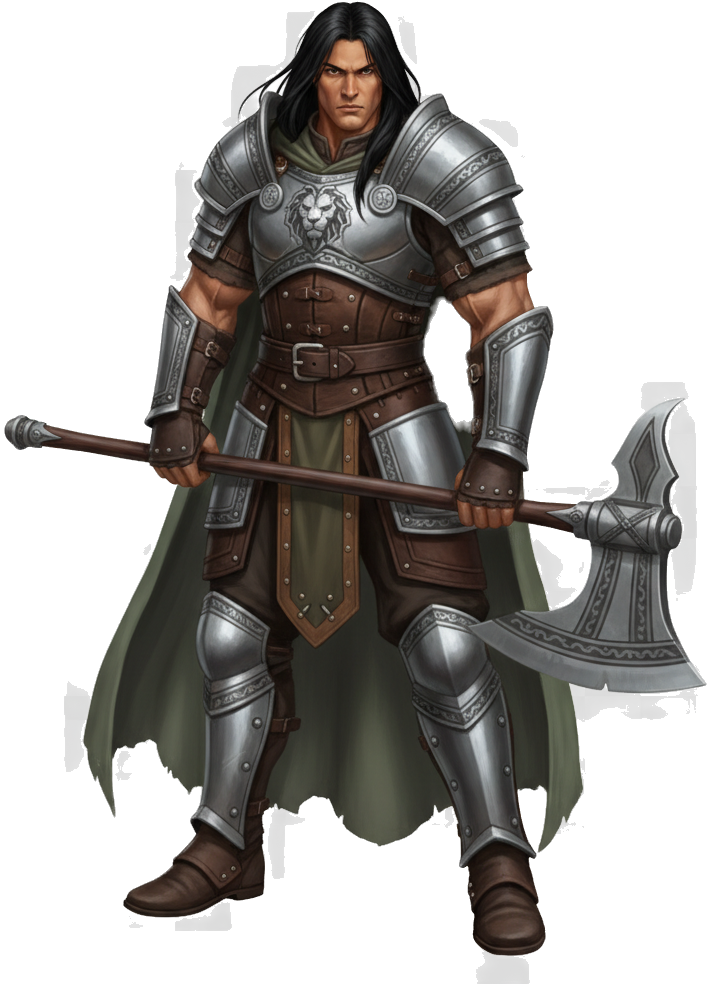
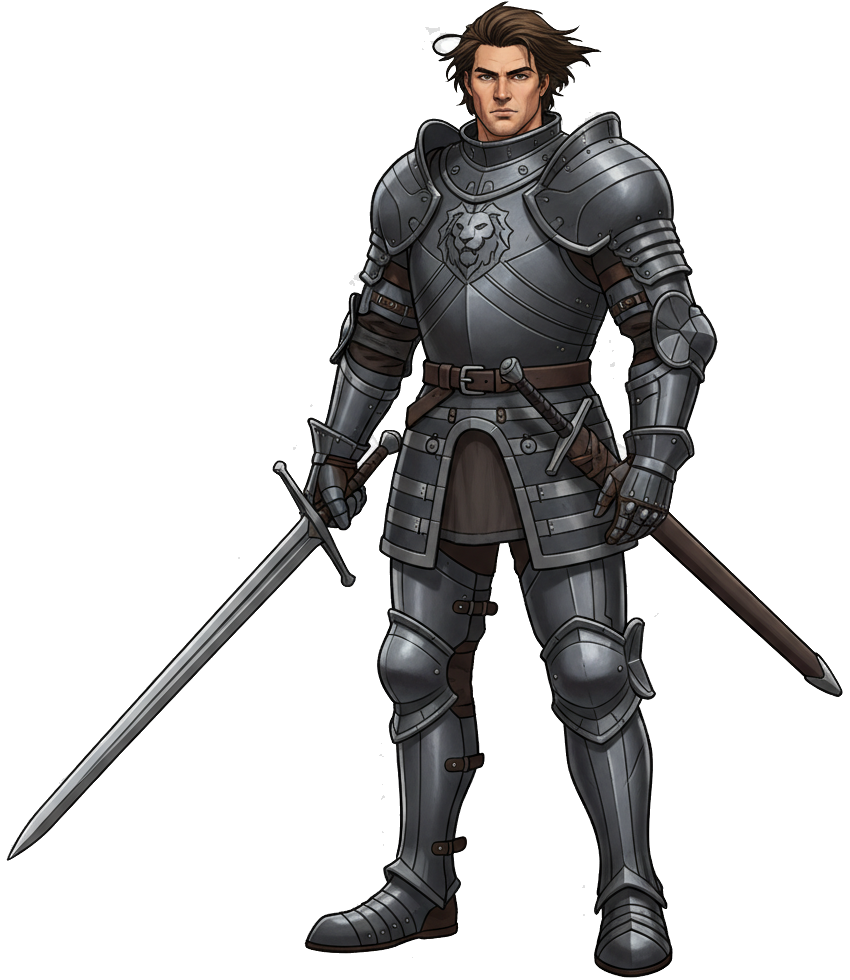
v194: Please regenerate @character1.png by looking at this image i just added and y ou see how its not following the greyscale trim algorithm well; feed it a better prompt so our warrior properly has the trim greyscale color and for the warrior armour dont

diff --git a/characters.js b/characters.js
@@ -5,13 +5,13 @@ const characters = [
         name: 'Archer', 
         genders: {
             male: { img: '/character2.png' },
-            female: { img: '/character2_female.png' }
+            female: { img: '/character_archer_female.png' }
         },
         baseHue: 120, 
         stats: { strength: 6, speed: 9, magic: 4, armour: 5 } 
     },
-    { name: 'Wizard', img: '/character3.png', baseHue: 60, stats: { strength: 3, speed: 6, magic: 10, armour: 3 } },
-    { name: 'Valkyrie', img: '/character4.png', baseHue: 0, stats: { strength: 7, speed: 7, magic: 6, armour: 6 } }
+    { name: 'Wizard', img: '/character_wizard.png', baseHue: 60, stats: { strength: 3, speed: 6, magic: 10, armour: 3 } },
+    { name: 'Valkyrie', img: '/character_valkrie.png', baseHue: 0, stats: { strength: 7, speed: 7, magic: 6, armour: 6 } }
 ];
 
 const ANIMATION_DURATION = 500; // ms

diff --git a/index.html b/index.html
@@ -199,7 +199,6 @@
       window.WebsimSocket = WebsimSocket;
     </script>
     
-    <script src="game-state.js"></script>
     <script src="audio.js"></script>
     <script src="characters.js"></script>
     <script src="color-utils.js"></script>
@@ -209,8 +208,7 @@
     <script src="color-shader.js"></script>
     <script src="mobile.js"></script>
     <script src="mobile-ui.js"></script>
-    <script src="qr-scanner.js"></script>
-    <script src="peer-manager.js"></script>
+    <script src="connection.js"></script>
     <script src="ui.js"></script>
     <script src="cursor.js"></script>
     <script src="main.js"></script>

diff --git a/main.js b/main.js
@@ -42,6 +42,10 @@ document.addEventListener('DOMContentLoaded', async () => {
     // Now initialize the rest of the app
     initializeCharacterSelection();
     initializeStartOverlay();
+
+    window.addEventListener('unhandledrejection', (e) => {
+        console.error('Unhandled promise rejection:', e.reason);
+    });
 });
 
 function initializePeerJS() {
